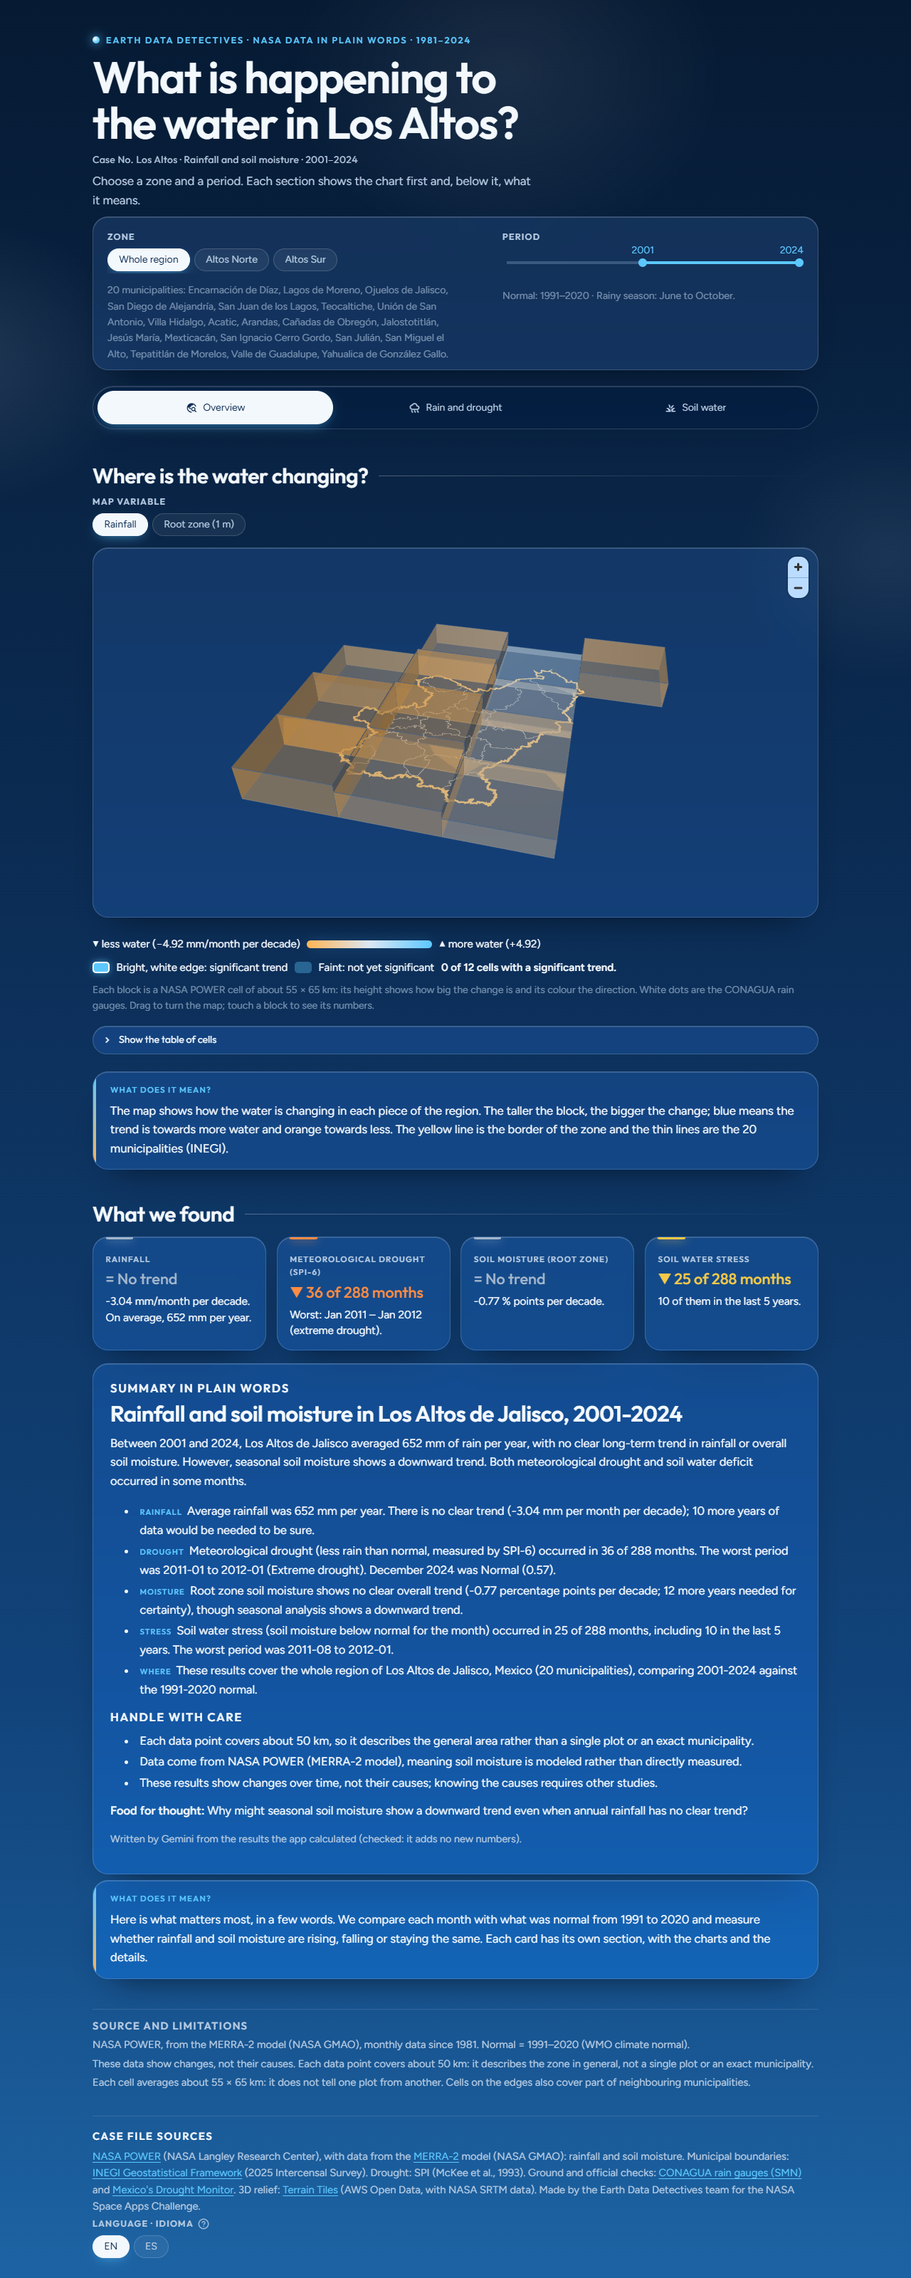
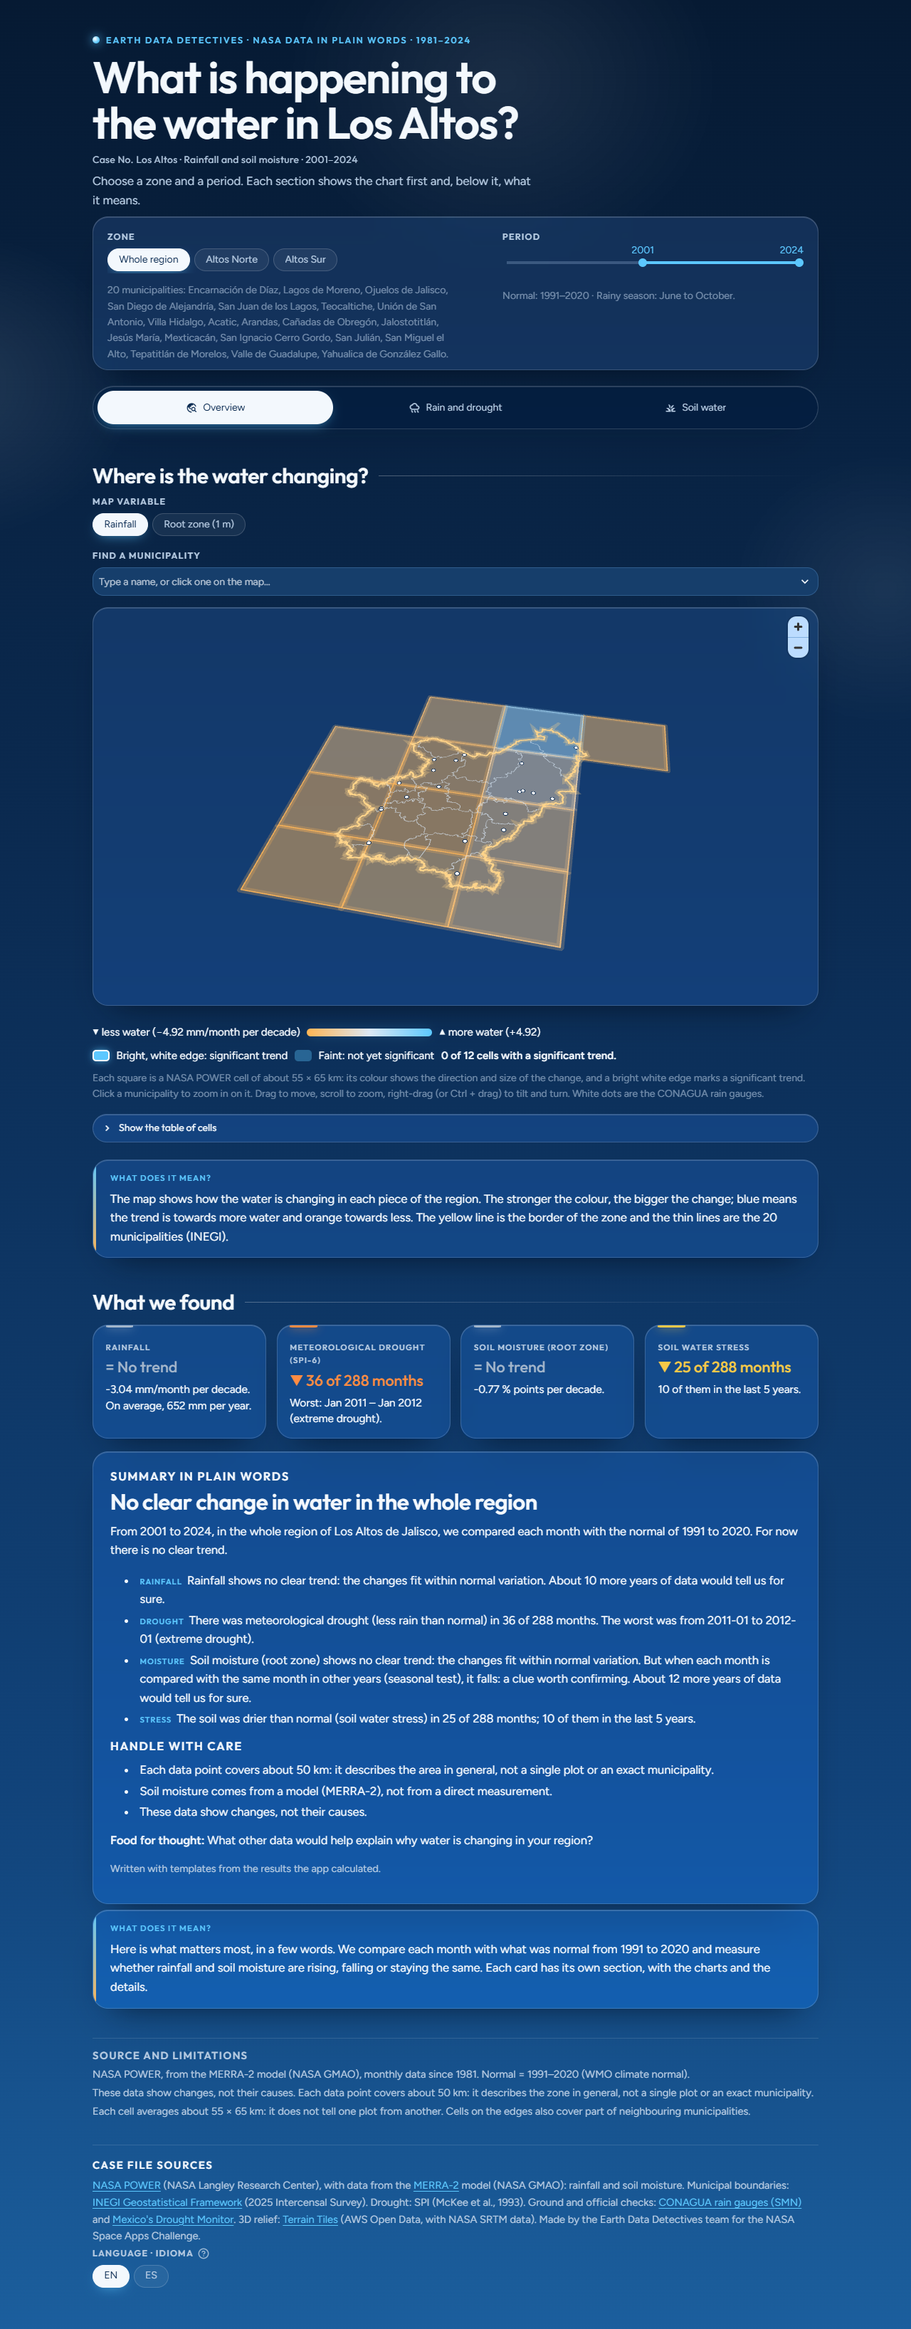
3D map without blocks: highlighted cells, search or click a municipality to zoom in, full interaction

Changed region(s): [[0.0938, 0.0312, 0.9062, 1.0]]

diff --git a/app.py b/app.py
@@ -261,64 +261,100 @@ def evidencias_indice(res: dict, clave: str, palabra: str) -> None:
     ], clave)
 
 
-def mapa_3d(celdas_t: pd.DataFrame, maximo: float, u_mapa: str) -> pdk.Deck:
-    """Celdas de POWER como bloques: altura = tamaño del cambio, color = dirección; brillantes si es segura."""
+def municipios_zona(id_zona: str) -> list[dict]:
+    """Municipios de la zona con su contorno (INEGI), su centro y su caja, para resaltarlos y hacer zoom."""
+    salida = []
+    for f in region.contorno(id_zona)["features"]:
+        if f["properties"]["tipo"] != "municipio":
+            continue
+        g = f["geometry"]
+        anillo = max(([g["coordinates"]] if g["type"] == "Polygon" else g["coordinates"]), key=lambda p: len(p[0]))[0]
+        lons, lats = [p[0] for p in anillo], [p[1] for p in anillo]
+        salida.append({"nombre": f["properties"]["nombre"], "rasgo": f, "lon": float(np.mean(lons)),
+                       "lat": float(np.mean(lats)), "caja": (min(lons), min(lats), max(lons), max(lats))})
+    return salida
+
+
+def celda_del_centro(celdas_t: pd.DataFrame, lon: float, lat: float) -> pd.Series:
+    """La celda de POWER más cercana al centro de un municipio."""
+    return celdas_t.loc[((celdas_t["lon"] - lon) ** 2 + (celdas_t["lat"] - lat) ** 2).idxmin()]
+
+
+def mapa_3d(celdas_t: pd.DataFrame, maximo: float, u_mapa: str, buscado: dict | None) -> pdk.Deck:
+    """Mapa 3D con interacción completa y sin bloques: cada celda de POWER va plana, con relleno suave del color de
+    su cambio y un borde que brilla (más fuerte si la tendencia es segura). El municipio buscado se resalta y la
+    cámara hace zoom ahí."""
     dl, dt = region.PASO_LON / 2, region.PASO_LAT / 2
-    bloques = []
+    celdas, bordes = [], []
     for _, c in celdas_t.iterrows():
         segura = c["color"] in SEGURAS
         v = E.VEREDICTO[c["color"]]
-        bloques.append({
-            "poligono": [[c["lon"] - dl, c["lat"] - dt], [c["lon"] + dl, c["lat"] - dt],
-                         [c["lon"] + dl, c["lat"] + dt], [c["lon"] - dl, c["lat"] + dt]],
-            "altura": 1500 + 26000 * abs(c["pendiente"]) / maximo,
-            "relleno": E.rgb(E.color_cambio(c["pendiente"], maximo)) + [235 if segura else 125],
-            "borde": [255, 255, 255, 235 if segura else 50],
-            "tip": (tx("donde.celda", lat=f"{c['lat']:.2f}", lon=f"{c['lon']:.3f}", peso=f"{c['peso']:.0%}")
-                    + "<br>" + tx("donde.por_decada", pend=f"{c['pendiente']:+.2f}", u=u_mapa, icono=v["icono"],
-                                  palabra=E.palabra(c["color"], idioma))
-                    + "<br>" + tx("donde.segura" if segura else "donde.no_segura")),
-        })
+        color = E.rgb(E.color_cambio(c["pendiente"], maximo))
+        cuadro = [[c["lon"] - dl, c["lat"] - dt], [c["lon"] + dl, c["lat"] - dt],
+                  [c["lon"] + dl, c["lat"] + dt], [c["lon"] - dl, c["lat"] + dt]]
+        celdas.append({"poligono": cuadro, "relleno": color + [175 if segura else 125],
+                       "tip": (tx("donde.celda", lat=f"{c['lat']:.2f}", lon=f"{c['lon']:.3f}", peso=f"{c['peso']:.0%}")
+                               + "\n" + tx("donde.por_decada", pend=f"{c['pendiente']:+.2f}", u=u_mapa,
+                                           icono=v["icono"], palabra=E.palabra(c["color"], idioma))
+                               + "\n" + re.sub(r"</?b>", "", tx("donde.segura" if segura else "donde.no_segura")))})
+        camino = cuadro + [cuadro[0]]
+        bordes.append({"camino": camino, "halo": (([255, 255, 255] if segura else color) + [95 if segura else 60]),
+                       "ancho_halo": 14 if segura else 9, "linea": ([255, 255, 255, 255] if segura else color + [235]),
+                       "ancho": 3.2 if segura else 1.6})
     contorno = region.contorno(id_zona)
     zona_geo = {"type": "FeatureCollection", "features": [f for f in contorno["features"]
                                                           if f["properties"]["tipo"] == "zona"]}
-    muni_geo = {"type": "FeatureCollection", "features": [f for f in contorno["features"]
-                                                          if f["properties"]["tipo"] == "municipio"]}
+    munis = municipios_zona(id_zona)
+    muni_geo = {"type": "FeatureCollection",  # cada municipio dice su nombre y que con un clic te acercas
+                "features": [{**m["rasgo"], "properties": {**m["rasgo"]["properties"],
+                                                           "tip": f"{m['nombre']}\n{tx('buscar.clic')}"}}
+                             for m in munis]}
     estaciones = [{"lon": s["lon"], "lat": s["lat"],
                    "tip": tx("donde.estacion", nombre=s["nombre"], municipio=s["municipio"])}
                   for _, s in contraste.estaciones(id_zona).iterrows()]
-    nombres = []
-    for f in muni_geo["features"]:  # el nombre de cada municipio, en el centro de su contorno
-        g = f["geometry"]
-        anillo = max(([g["coordinates"]] if g["type"] == "Polygon" else g["coordinates"]), key=lambda p: len(p[0]))[0]
-        nombres.append({"texto": f["properties"]["nombre"], "lon": float(np.mean([p[0] for p in anillo])),
-                        "lat": float(np.mean([p[1] for p in anillo]))})
+    pixeles = {"width_units": pdk.types.String("pixels"), "cap_rounded": True, "joint_rounded": True}
     capas = [
-        pdk.Layer("GeoJsonLayer", muni_geo, stroked=True, filled=False, get_line_color=[220, 235, 250, 140],
-                  line_width_min_pixels=1),
+        pdk.Layer("PolygonLayer", celdas, get_polygon="poligono", filled=True, stroked=False,
+                  get_fill_color="relleno", pickable=True, auto_highlight=True, highlight_color=[255, 255, 255, 60]),
+        pdk.Layer("PathLayer", bordes, get_path="camino", get_color="halo", get_width="ancho_halo", **pixeles),
+        pdk.Layer("PathLayer", bordes, get_path="camino", get_color="linea", get_width="ancho", **pixeles),
+        pdk.Layer("GeoJsonLayer", muni_geo, id="municipios", stroked=True, filled=True,
+                  get_fill_color=[255, 255, 255, 0], get_line_color=[220, 235, 250, 120], line_width_min_pixels=1,
+                  pickable=True, auto_highlight=True, highlight_color=[255, 212, 138, 70]),
+        pdk.Layer("GeoJsonLayer", zona_geo, stroked=True, filled=False, get_line_color=E.rgb(E.BORDE_ZONA) + [70],
+                  line_width_min_pixels=10),
         pdk.Layer("GeoJsonLayer", zona_geo, stroked=True, filled=False, get_line_color=E.rgb(E.BORDE_ZONA) + [255],
-                  line_width_min_pixels=3),
-        pdk.Layer("PolygonLayer", bloques, get_polygon="poligono", extruded=True, wireframe=True,
-                  get_elevation="altura", get_fill_color="relleno", get_line_color="borde", pickable=True,
-                  auto_highlight=True, highlight_color=[255, 255, 255, 70]),
+                  line_width_min_pixels=2.5),
+    ]
+    if buscado:  # el municipio buscado: relleno ámbar suave, halo ancho y borde blanco
+        geo = {"type": "FeatureCollection", "features": [buscado["rasgo"]]}
+        capas += [
+            pdk.Layer("GeoJsonLayer", geo, stroked=True, filled=True, get_fill_color=E.rgb(E.BORDE_ZONA) + [70],
+                      get_line_color=E.rgb(E.BORDE_ZONA) + [120], line_width_min_pixels=16),
+            pdk.Layer("GeoJsonLayer", geo, stroked=True, filled=False, get_line_color=[255, 255, 255, 255],
+                      line_width_min_pixels=3.5),
+        ]
+    capas += [
         pdk.Layer("ScatterplotLayer", estaciones, get_position=["lon", "lat"], get_radius=1500,
                   radius_min_pixels=3, get_fill_color=[255, 255, 255, 240], stroked=True,
                   get_line_color=E.rgb(E.CIELO_HONDO) + [255], line_width_min_pixels=1, pickable=True),
-        pdk.Layer("TextLayer", nombres, get_position=["lon", "lat"], get_text="texto", get_size=12,
-                  get_color=E.rgb(E.NUBE) + [235], get_text_anchor=pdk.types.String("middle"), get_alignment_baseline=pdk.types.String("center"),
-                  font_family="Figtree, Arial, sans-serif", font_settings={"sdf": True}, outline_width=3,
-                  outline_color=E.rgb(E.CIELO_ALTO) + [255], billboard=True,
-                  character_set=sorted(set("".join(n["texto"] for n in nombres))),
-                  parameters={"depthTest": False}),
     ]
-    vista = pdk.ViewState(latitude=float(celdas_t["lat"].mean()) - 0.12, longitude=float(celdas_t["lon"].mean()),
-                          zoom=7.15 if id_zona == "los-altos" else 7.7, pitch=52, bearing=-14)
-    # Sin mapa base: los bloques flotan sobre el vidrio azul, con los contornos y los nombres de INEGI
+    if buscado:  # zoom al municipio: que su caja llene el mapa
+        o, s_, e, n = buscado["caja"]
+        zoom = float(np.clip(np.log2(360 / max(e - o, (n - s_) * 1.25)) - 0.55, 8.2, 10.8))
+        vista = pdk.ViewState(latitude=(s_ + n) / 2 - 0.04, longitude=(o + e) / 2, zoom=zoom, pitch=48, bearing=-12,
+                              transition_duration=1200)
+    else:
+        vista = pdk.ViewState(latitude=float(celdas_t["lat"].mean()) - 0.12, longitude=float(celdas_t["lon"].mean()),
+                              zoom=7.2 if id_zona == "los-altos" else 7.75, pitch=45, bearing=-12,
+                              transition_duration=1200)
+    # Interacción completa: arrastrar, girar e inclinar (botón derecho o Ctrl), acercar con la rueda o doble clic
     return pdk.Deck(layers=capas, initial_view_state=vista, map_provider=None, map_style=None,
-                    views=[pdk.View(type="MapView", controller={"scrollZoom": False, "doubleClickZoom": False})],
-                    tooltip={"html": "{tip}", "style": {"backgroundColor": "rgba(6,26,51,0.94)", "color": E.NUBE,
+                    views=[pdk.View(type="MapView", controller=True)],
+                    tooltip={"text": "{tip}", "style": {"backgroundColor": "rgba(6,26,51,0.94)", "color": E.NUBE,
                                                          "fontFamily": E.PILA_TEXTO, "fontSize": "13px",
-                                                         "borderRadius": "12px", "padding": "8px 10px"}})
+                                                         "whiteSpace": "pre-line", "borderRadius": "12px",
+                                                         "padding": "8px 10px"}})
 
 
 # --- Controles: zona y periodo -------------------------------------------------------------
@@ -383,7 +419,32 @@ if vista == "resumen":
         celdas_t = pd.DataFrame()
     if not celdas_t.empty:
         maximo = float(celdas_t["pendiente"].abs().max()) or 1.0
-        st.pydeck_chart(mapa_3d(celdas_t, maximo, u_mapa), height=520, key="mapa3d")
+        munis = municipios_zona(id_zona)
+        nombres_munis = [m["nombre"] for m in munis]
+        # Clic en un municipio del mapa = buscarlo: se lee la selección del mapa anterior antes de dibujar el buscador.
+        # Solo cuenta una selección nueva (si no, borrar el buscador volvería a poner el municipio del último clic).
+        clave_previa = st.session_state.get("mapa3d_clave")
+        seleccion = (st.session_state.get(clave_previa) or {}).get("selection") or {} if clave_previa else {}
+        clic = (seleccion.get("objects") or {}).get("municipios") or []
+        if clic and (clave_previa, str(seleccion.get("indices"))) != st.session_state.get("mapa3d_aplicado"):
+            st.session_state["mapa3d_aplicado"] = (clave_previa, str(seleccion.get("indices")))
+            nombre_clic = (clic[0].get("properties") or {}).get("nombre")
+            if nombre_clic in nombres_munis:
+                st.session_state["buscar"] = nombre_clic
+        nombre_buscado = st.selectbox(tx("buscar.etiqueta"), nombres_munis, index=None, key="buscar",
+                                      placeholder=tx("buscar.placeholder"))
+        buscado = next((m for m in munis if m["nombre"] == nombre_buscado), None)
+        # La llave cambia con la zona y el municipio buscado: así el mapa se vuelve a crear y la cámara hace zoom ahí
+        clave_mapa = f"mapa3d_{id_zona}_{buscado['rasgo']['properties']['cvegeo'] if buscado else 'zona'}"
+        st.session_state["mapa3d_clave"] = clave_mapa
+        st.pydeck_chart(mapa_3d(celdas_t, maximo, u_mapa, buscado), height=560, key=clave_mapa,
+                        on_select="rerun", selection_mode="single-object")
+        if buscado:
+            c = celda_del_centro(celdas_t, buscado["lon"], buscado["lat"])
+            st.markdown(E.buscado_html(tx(
+                "buscar.resultado", nombre=buscado["nombre"], pend=f"{c['pendiente']:+.2f}", u=u_mapa,
+                icono=E.VEREDICTO[c["color"]]["icono"], palabra=E.palabra(c["color"], idioma),
+                segura=tx("tabla.si") if c["color"] in SEGURAS else tx("tabla.no"))), unsafe_allow_html=True)
         seguras = int(celdas_t["color"].isin(SEGURAS).sum())
         st.markdown(E.leyenda_mapa_html(maximo, u_mapa, seguras, len(celdas_t), idioma), unsafe_allow_html=True)
         st.caption(tx("mapa.ayuda"))

diff --git a/src/textos.py b/src/textos.py
@@ -138,7 +138,10 @@ TEXTOS: dict[str, dict[str, str]] = {
         "donde.no_segura": "Trend not yet significant",
         "leyenda.menos": "less water", "leyenda.mas": "more water", "leyenda.por_decada": "per decade",
         "leyenda.segura": "Bright, white edge: significant trend", "leyenda.no_segura": "Faint: not yet significant",
-        "mapa.ayuda": "Each block is a NASA POWER cell of about 55 × 65 km: its height shows how big the change is and its colour the direction. White dots are the CONAGUA rain gauges. Drag to turn the map; touch a block to see its numbers.",
+        "mapa.ayuda": "Each square is a NASA POWER cell of about 55 × 65 km: its colour shows the direction and size of the change, and a bright white edge marks a significant trend. Click a municipality to zoom in on it. Drag to move, scroll to zoom, right-drag (or Ctrl + drag) to tilt and turn. White dots are the CONAGUA rain gauges.",
+        "buscar.etiqueta": "Find a municipality", "buscar.placeholder": "Type a name, or click one on the map…",
+        "buscar.clic": "Click to zoom in",
+        "buscar.resultado": "{nombre}: the NASA POWER cell over its centre changes {pend} {u} per decade · {icono} {palabra}. Significant trend: {segura}.",
         "leyenda.cuenta": "{n} of {total} cells with a significant trend.",
         "tabla.ver": "Show the table of cells",
         "tabla.celda": "Cell", "tabla.zona": "% of the zone", "tabla.cambio": "Change per decade ({u})",
@@ -195,9 +198,9 @@ TEXTOS: dict[str, dict[str, str]] = {
             "Each month is compared with the same month in other years, so a dry April is not confused with a dry "
             "August."),
         "significa.donde": (
-            "The map shows how the water is changing in each piece of the region. The taller the block, the bigger the "
-            "change; blue means the trend is towards more water and orange towards less. The yellow line is the "
-            "border of the zone and the thin lines are the 20 municipalities (INEGI)."),
+            "The map shows how the water is changing in each piece of the region. The stronger the colour, the bigger "
+            "the change; blue means the trend is towards more water and orange towards less. The yellow line is "
+            "the border of the zone and the thin lines are the 20 municipalities (INEGI)."),
         "no_es.sequia": "Little rain does not mean the soil is already dry or that crops are suffering: for that, "
                         "check the Soil water section.",
         "no_es.estres": "It does not directly measure crop stress: soil with little water does not prove that the "
@@ -349,7 +352,10 @@ TEXTOS: dict[str, dict[str, str]] = {
         "donde.no_segura": "Tendencia todavía no segura",
         "leyenda.menos": "menos agua", "leyenda.mas": "más agua", "leyenda.por_decada": "por década",
         "leyenda.segura": "Brillante y con borde blanco: tendencia segura", "leyenda.no_segura": "Tenue: todavía no segura",
-        "mapa.ayuda": "Cada bloque es una celda de NASA POWER de unos 55 × 65 km: su altura dice qué tan grande es el cambio y su color, hacia dónde va. Los puntos blancos son los pluviómetros de CONAGUA. Arrastra para girar el mapa; toca un bloque para ver sus números.",
+        "mapa.ayuda": "Cada cuadro es una celda de NASA POWER de unos 55 × 65 km: su color dice hacia dónde va el cambio y qué tan grande es, y un borde blanco brillante marca una tendencia segura. Haz clic en un municipio para acercarte. Arrastra para moverlo, usa la rueda para acercar y arrastra con el botón derecho (o Ctrl) para inclinarlo y girarlo. Los puntos blancos son los pluviómetros de CONAGUA.",
+        "buscar.etiqueta": "Busca un municipio", "buscar.placeholder": "Escribe un nombre o haz clic en uno del mapa…",
+        "buscar.clic": "Haz clic para acercarte",
+        "buscar.resultado": "{nombre}: la celda de NASA POWER sobre su centro cambia {pend} {u} por década · {icono} {palabra}. Tendencia segura: {segura}.",
         "leyenda.cuenta": "{n} de {total} celdas con tendencia segura.",
         "tabla.ver": "Ver la tabla de las celdas",
         "tabla.celda": "Celda", "tabla.zona": "% de la zona", "tabla.cambio": "Cambio por década ({u})",
@@ -406,9 +412,9 @@ TEXTOS: dict[str, dict[str, str]] = {
             "déficit. Cada mes se compara con el mismo mes de otros años, así que un abril seco no se confunde con "
             "un agosto seco."),
         "significa.donde": (
-            "El mapa muestra cómo cambia el agua en cada pedazo de la región. Entre más alto el bloque, más grande el "
-            "cambio; azul quiere decir que la tendencia va hacia más agua y naranja, hacia menos. La línea amarilla "
-            "es el borde de la zona y las líneas delgadas, los 20 municipios (INEGI)."),
+            "El mapa muestra cómo cambia el agua en cada pedazo de la región. Entre más intenso el color, más grande "
+            "el cambio; azul quiere decir que la tendencia va hacia más agua y naranja, hacia menos. La línea "
+            "amarilla es el borde de la zona y las líneas delgadas, los 20 municipios (INEGI)."),
         "no_es.sequia": "Que llueva poco no significa que el suelo ya esté seco ni que los cultivos sufran: para eso "
                         "revisa la sección Agua del suelo.",
         "no_es.estres": "No mide directamente el estrés de los cultivos: que el suelo tenga poca agua no prueba que "

diff --git a/src/estilo.py b/src/estilo.py
@@ -268,6 +268,11 @@ p.dd-etiqueta { font-family: var(--dd-titulos); font-size: .72rem !important; fo
   text-transform: uppercase; color: var(--dd-agua); margin-right: .45rem; }
 .dd-resumen p.dd-resumen__origen { font-size: .9rem !important; color: var(--dd-niebla); margin-top: .7rem !important; }
 
+/* Municipio buscado en el mapa */
+p.dd-buscado { background: var(--dd-vidrio-fuerte); border: 1px solid var(--dd-vidrio-borde); border-left: 4px solid #FFD48A;
+  border-radius: 14px; padding: .7rem 1rem; margin: .7rem 0 .2rem !important; font-size: 1.02rem !important;
+  color: var(--dd-nube); box-shadow: 0 0 24px -10px #FFD48A; }
+
 /* Leyenda del mapa */
 .dd-leyenda { display: flex; align-items: center; gap: .6rem; flex-wrap: wrap; font-size: .94rem; color: var(--dd-nube);
   margin: .55rem 0; }
@@ -359,7 +364,8 @@ def color_cambio(valor: float, maximo: float) -> str:
     if valor is None or maximo <= 0 or valor != valor:  # NaN
         return CALMA
     t = max(-1.0, min(1.0, valor / maximo))
-    return _mezcla(NEUTRO, MAS_AGUA if t > 0 else MENOS_AGUA, abs(t))
+    # Raíz cuadrada: los cambios chicos ya se distinguen del "sin cambio" (con escala lineal salían grises)
+    return _mezcla(NEUTRO, MAS_AGUA if t > 0 else MENOS_AGUA, abs(t) ** 0.5)
 
 
 # --- Piezas HTML ---------------------------------------------------------------------------
@@ -370,6 +376,11 @@ def hero_html(numero: str, pregunta: str, nota: str, idioma: str = "es") -> str:
             f'<p class="dd-hero__pregunta" role="heading" aria-level="1">{html.escape(pregunta)}</p>'
             f'<p class="dd-hero__numero">{T.t("caso.prefijo", idioma)} {html.escape(numero)}</p>'
             f'<p class="dd-hero__nota">{html.escape(nota)}</p></div>')
+
+
+def buscado_html(texto: str) -> str:
+    """Lo que dice el mapa del municipio buscado, en una tarjeta de vidrio con borde ámbar."""
+    return f'<p class="dd-buscado">{html.escape(texto)}</p>'
 
 
 def seccion_html(titulo: str) -> str:

diff --git a/tests/test_app.py b/tests/test_app.py
@@ -295,3 +295,15 @@ def test_el_boton_cambia_todo_y_regresa():
     at.segmented_control(key="idioma").set_value("en").run()
     assert not at.exception
     assert "Case No." in textos(at.markdown)
+
+
+def test_buscar_un_municipio_hace_zoom_y_lo_resalta_sin_bloques():
+    import json
+    at = correr()
+    mapa = json.loads(at.get("deck_gl_json_chart")[0].proto.json)
+    assert not any(c.get("extruded") for c in mapa["layers"])  # nada de bloques
+    at.selectbox(key="buscar").set_value("Tepatitlán de Morelos").run()
+    assert not at.exception
+    assert "Tepatitlán de Morelos: la celda de NASA POWER sobre su centro" in textos(at.markdown)
+    mapa = json.loads(at.get("deck_gl_json_chart")[0].proto.json)
+    assert mapa["initialViewState"]["zoom"] > 8
